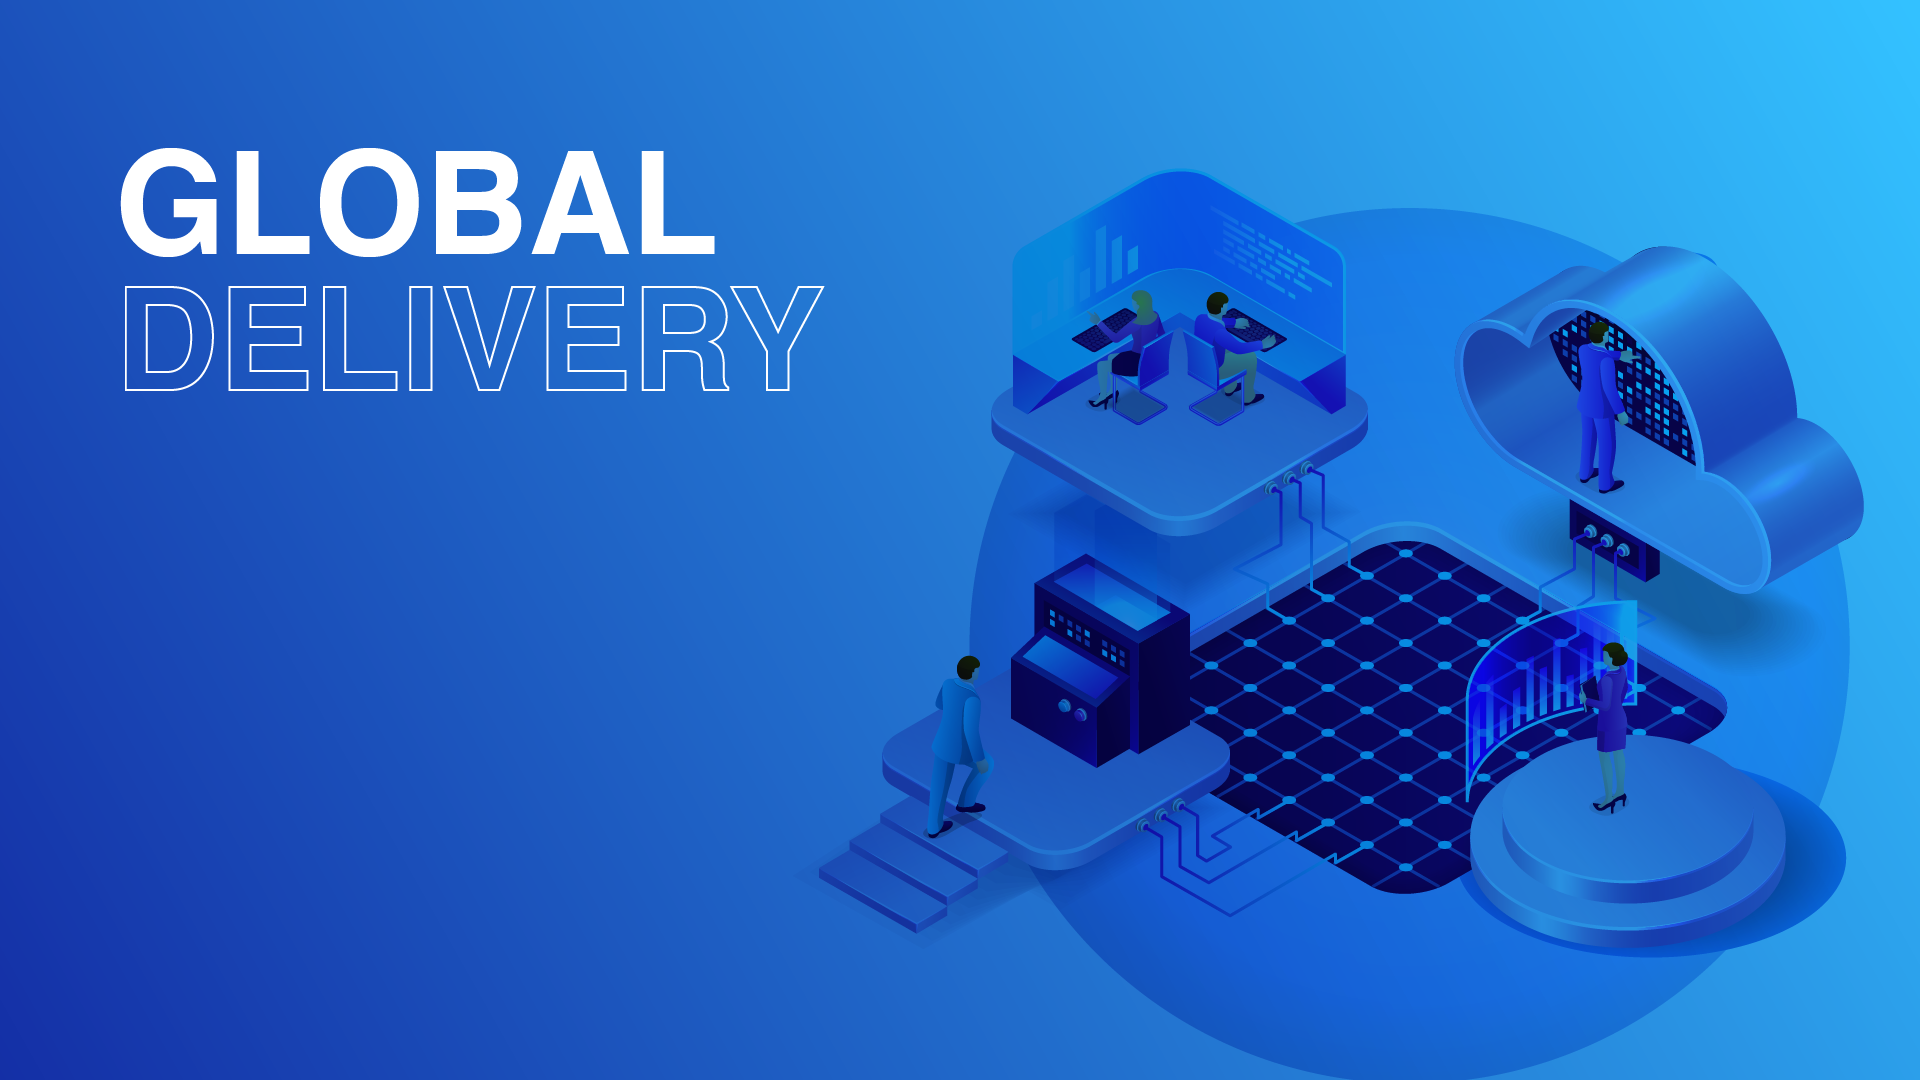
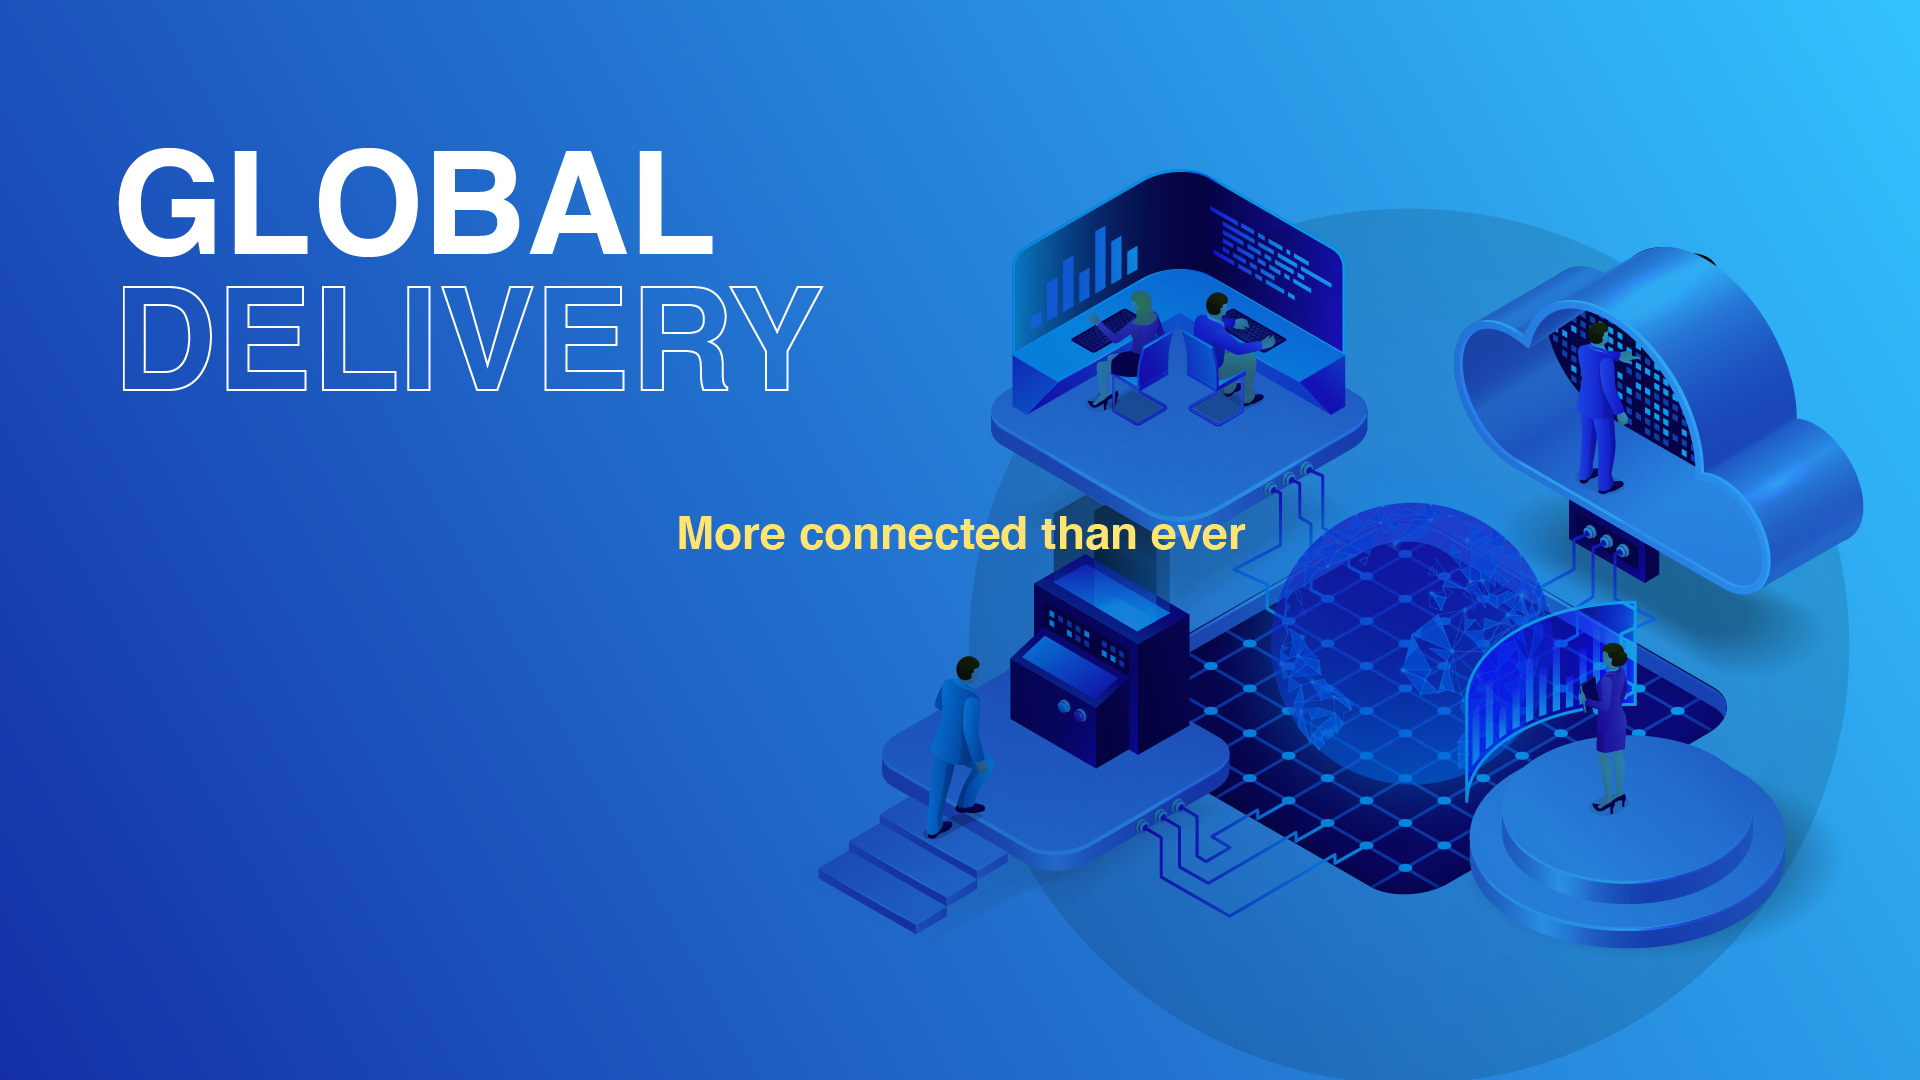
v4
v4

diff --git a/Website_25_2/index.html b/Website_25_2/index.html
@@ -52,8 +52,8 @@
             <ul>
               <!-- <li class="active"><a href="index.html">Inicio</a></li> -->
               <li><a href="#about">Nosotros</a></li>
-              <li><a href="#services">Especialidades</a></li>
-              <li><a href="#portfolio">Modalidades</a></li>
+              <li><a href="#portfolio">Especialidades</a></li>
+              <li><a href="#services">Modalidades</a></li>
               <li><a href="#team">Talento</a></li>
               <!-- <li class="drop-down"><a href="">Librería de ideas</a>
                 <ul>
@@ -145,7 +145,7 @@
           <div class="carousel-item" style="background-image:  url(assets/img/3.png)">
             <div class="carousel-container">
               <div class="container">
-                <h2 class="animate__animated animate__fadeInDown">More connected than ever.</h2>
+                <!-- <h2 class="animate__animated animate__fadeInDown">More connected than ever.</h2> -->
                 <!-- <p class="animate__animated animate__fadeInUp">More connected than ever.</p> -->
                 <!-- <a href="#featured-services" class="btn-get-started scrollto animate__animated animate__fadeInUp">Get Started</a> -->
               </div>
@@ -168,9 +168,9 @@
             <div class="carousel-container">
               <div class="container">
                 <h2 class="animate__animated animate__fadeInDown">Conoce nuestra oferta de cursos disponibles.</h2>
-                <p class="animate__animated animate__fadeInUp">Beatae vitae dicta sunt explicabo. Nemo enim ipsam voluptatem quia voluptas sit aspernatur aut odit aut fugit, sed quia consequuntur magni dolores eos qui ratione voluptatem sequi
-                  nesciunt omnis iste natus error sit voluptatem accusantium.</p>
-                <a href="#featured-services" class="btn-get-started scrollto animate__animated animate__fadeInUp">Ir a cursos</a>
+                <!-- <p class="animate__animated animate__fadeInUp">Beatae vitae dicta sunt explicabo. Nemo enim ipsam voluptatem quia voluptas sit aspernatur aut odit aut fugit, sed quia consequuntur magni dolores eos qui ratione voluptatem sequi
+                  nesciunt omnis iste natus error sit voluptatem accusantium.</p> -->
+                <a href="#featured-services" class="btn-get-started scrollto animate__animated animate__fadeInUp" style="background-color: #007bff;">Ir a cursos</a>
               </div>
             </div>
           </div>
@@ -231,7 +231,8 @@
     <section id="facts">
       <div class="container" data-aos="fade-up">
         <header class="section-header">
-          <h3>CRECIMIENTO</h3>
+          <img src="assets/img/textoCrecimiento.png" alt="" class="img-fluid" style="margin:30px; margin:15px; align: center;">
+          <!-- <h3>CRECIMIENTO</h3> -->
           <p>Transformamos a las empresas con soluciones tecnológicas, inteligentes, digitales y ágiles.
             <br>
           </p>
@@ -259,10 +260,6 @@
         </div>
       </div>
     </section><!-- End Facts Section -->
-
-
-
-
 
     <!-- ======= ESPECIALIDADES ======= -->
     <section id="portfolio" class="section-bg">
@@ -627,30 +624,23 @@
       </div>
     </section><!-- End Portfolio Section -->
 
-
-
-
-
     <!-- ======= Call To Action Section ======= -->
     <section id="call-to-action">
       <div class="container text-center" data-aos="zoom-in">
-        <img src="assets/img/textoTI.png" alt="" class="img-fluid" style="margin:20px;">
-        <h3>Call To Action</h3>
-        <p> Duis aute irure dolor in reprehenderit in voluptate velit esse cillum dolore eu fugiat nulla pariatur. Excepteur sint occaecat cupidatat non proident, sunt in culpa qui officia deserunt mollit anim id est laborum.</p>
-        <a class="cta-btn" href="#">Call To Action</a>
+        <img src="assets/img/textoTI.png" alt="" class="img-fluid" style="margin-top: 20px;">
+        <!-- <h3>Call To Action</h3> -->
+        <!-- <p> Duis aute irure dolor in reprehenderit in voluptate velit esse cillum dolore eu fugiat nulla pariatur. Excepteur sint occaecat cupidatat non proident, sunt in culpa qui officia deserunt mollit anim id est laborum.</p> -->
+        <a class="cta-btn" href="#contact">Contacto</a>
       </div>
     </section><!-- End Call To Action Section -->
-
-
-
-
 
 
     <!-- ======= Modalidades Section ======= -->
     <section id="services">
       <div class="container" data-aos="fade-up">
         <header class="section-header wow fadeInUp">
-          <h3>Modalidades</h3>
+          <img src="assets/img/textoModalidades.png" alt="" class="img-fluid" style="margin:30px; margin:15px;">
+          <!-- <h3>Modalidades</h3> -->
           <p>Laudem latine persequeris id sed, ex fabulas delectus quo. No vel partiendo abhorreant vituperatoribus, ad pro quaestio laboramus. Ei ubique vivendum pro. At ius nisl accusam lorenta zanos paradigno tridexa panatarel.</p>
         </header>
         <div class="row">
@@ -687,12 +677,6 @@
         </div>
       </div>
     </section><!-- End Services Section -->
-
-
-
-
-
-
 
 
     <!-- ======= INVERSIONISTAS ======= -->
@@ -766,7 +750,8 @@
     <section id="team">
       <div class="container" data-aos="fade-up">
         <div class="section-header">
-          <h3>TRABAJA CON NOSOTROS</h3>
+            <img src="assets/img/textoTalento.png" alt="" class="img-fluid" style="margin:30px; margin:15px;">
+          <!-- <h3>TRABAJA CON NOSOTROS</h3> -->
           <p>En PRAXIS sabemos que los colaboradores, son el capital más importante que tenemos. Si eres una persona innovadora, te gustan los retos y tienes grandes iniciativas, te invitamos a unirte a esta gran familia tecnológica.
           </p>
         </div>
@@ -774,7 +759,7 @@
 
           <div class="col-lg-3 col-md-6">
             <div class="member" data-aos="fade-up" data-aos-delay="100">
-              <img src="assets/img/trabaja/1.jpg" class="img-fluid" alt="">
+              <img src="assets/img/trabaja1.png" class="img-fluid" alt="">
               <div class="member-info">
                 <div class="member-info-content">
                   <h4>Lorem Ipsum</h4>
@@ -791,7 +776,7 @@
           </div>
           <div class="col-lg-3 col-md-6">
             <div class="member" data-aos="fade-up" data-aos-delay="200">
-              <img src="assets/img/trabaja/2.png" class="img-fluid" alt="">
+              <img src="assets/img/trabaja2.png" class="img-fluid" alt="">
               <div class="member-info">
                 <div class="member-info-content">
                   <h4>Lorem Ipsum</h4>
@@ -808,7 +793,7 @@
           </div>
           <div class="col-lg-3 col-md-6">
             <div class="member" data-aos="fade-up" data-aos-delay="300">
-              <img src="assets/img/trabaja/3.png" class="img-fluid" alt="">
+              <img src="assets/img/trabaja3.png" class="img-fluid" alt="">
               <div class="member-info">
                 <div class="member-info-content">
                   <h4>Lorem Ipsum</h4>
@@ -825,7 +810,7 @@
           </div>
           <div class="col-lg-3 col-md-6">
             <div class="member" data-aos="fade-up" data-aos-delay="400">
-              <img src="assets/img/trabaja/4.png" class="img-fluid" alt="">
+              <img src="assets/img/trabaja4.png" class="img-fluid" alt="">
               <div class="member-info">
                 <div class="member-info-content">
                   <h4>Lorem Ipsum</h4>
@@ -842,7 +827,7 @@
           </div>
 
           <div class="facts-img">
-            <img src="assets/img/trabaja/7.png" alt="" class="img-fluid">
+            <img src="assets/img/trabaja5.png" alt="" class="img-fluid">
           </div>
 
 
@@ -854,9 +839,9 @@
     <!-- ======= Contacto Section ======= -->
     <section id="contact" class="section-bg">
       <div class="container" data-aos="fade-up">
-
         <div class="section-header">
-          <h3>Contáctanos</h3>
+            <img src="assets/img/textoContacto.png" alt="" class="img-fluid" style="margin:30px; margin:15px;">
+          <!-- <h3>Contáctanos</h3> -->
           <p>Estamos dispuestos a acompañarte y brindarte asesoría en cualquier duda, o comentario que tengas.</p>
         </div>
         <div class="row contact-info">
@@ -978,12 +963,16 @@
           <div class="col-lg-3 col-md-6 footer-newsletter">
             <h4>LIBRERÍA DE IDEAS</h4>
             <p>
+              <img src="assets/img/bullet.png" alt="" class="img-fluid">
               TENDENCIAS
               <br>
+              <img src="assets/img/bullet.png" alt="" class="img-fluid">
               DISEMINACIONES
               <br>
+              <img src="assets/img/bullet.png" alt="" class="img-fluid">
               WHITEPAPERS
               <br>
+              <img src="assets/img/bullet.png" alt="" class="img-fluid">
               WEBINARS
             </p>
             <form action="" method="post">

diff --git a/Website_25_2/assets/css/style.css b/Website_25_2/assets/css/style.css
@@ -544,7 +544,7 @@ h1, h2, h3, h4, h5, h6 {
   letter-spacing: 1px;
   display: inline-block;
   padding: 8px 32px;
-  border-radius: 50px;
+  border-radius: 30px;
   transition: 0.5s;
   margin: 10px;
   color: #fff;
@@ -924,7 +924,7 @@ section {
 /* Facts Section
 --------------------------------*/
 #facts {
-  background: url("../img/mexico2.jpg") center top no-repeat fixed;
+  background: url("../img/crecimientoBg.jpg") center top no-repeat fixed;
   background-size: cover;
   padding: 60px 0 0 0;
   position: relative;
